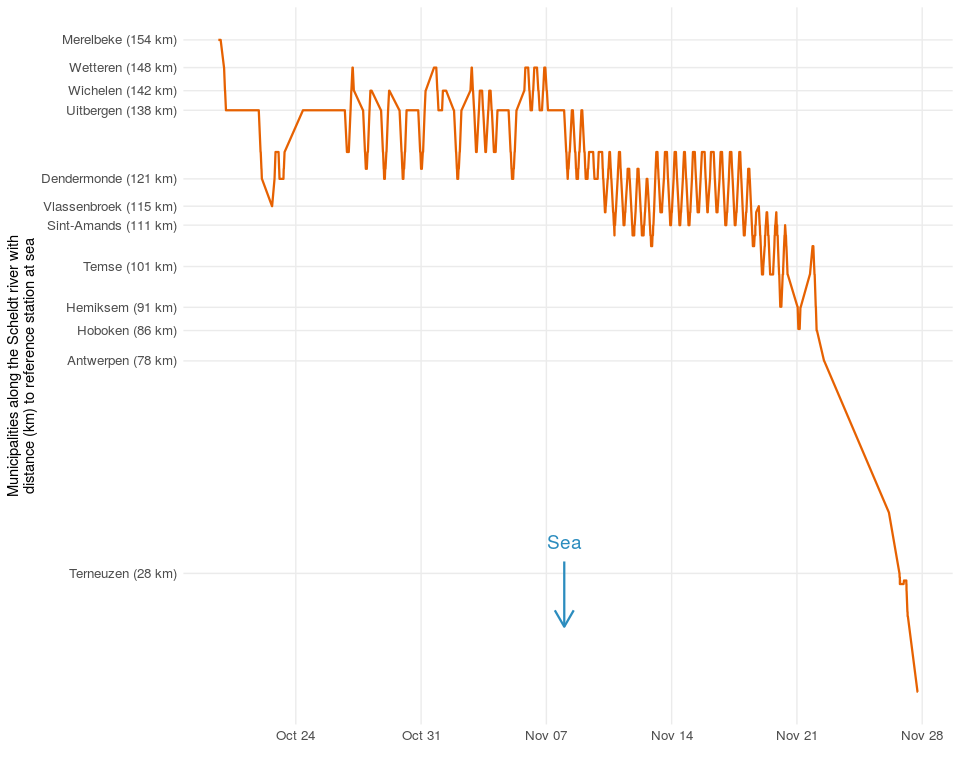
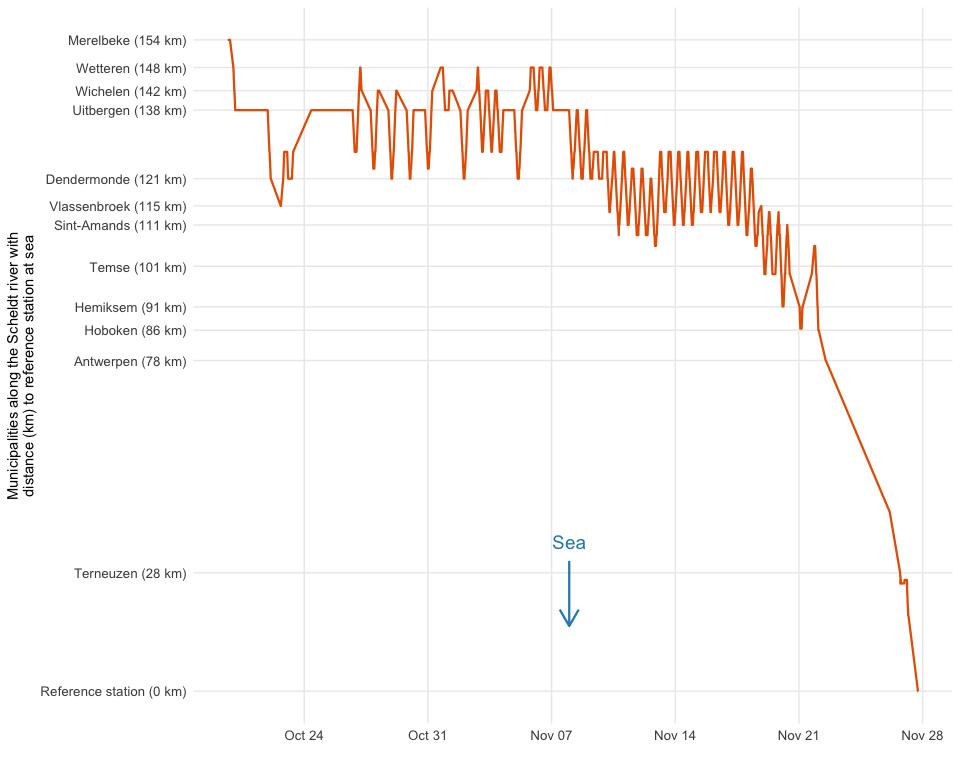
Update ref station in post (and thus plots)

diff --git a/docs/waterinfo-tidal-eel.md b/docs/waterinfo-tidal-eel.md
@@ -164,8 +164,7 @@ To avoid visual clutter, we'll use ridges (from [`ggridges`](https://cran.r-proj
 
 Looking at the plot, Princess Buttercup seems to be "lazy" and drift with the tide. Rising water levels push her upstream, while decreasing water levels bring her closer to sea again. On November 22 (see also previous plot), she embarks on her migration for real.
 
-Conclusion
-----------
+### Conclusion
 
 In this blogpost we used the wateRinfo package to gain some insight in the movement/migration behaviour of an individual eel. We hope the package can support many more research questions and that you [have fun storming the castle](https://www.imdb.com/title/tt0093779/quotes/qt0482745).
 
@@ -173,7 +172,7 @@ In this blogpost we used the wateRinfo package to gain some insight in the movem
 -   For more info on the package, see [the package website](https://ropensci.github.io/wateRinfo/).
 -   For the full code of this blogpost, see [this repository](https://github.com/stijnvanhoey/waterinfo-tidal-eel).
 
-[1] To represent the data along a straight line (y-axis), we calculated the distance along the river from each station to a reference station close to the sea (`ws-DL7`), using a `costDistance` function. See [this script](https://github.com/stijnvanhoey/waterinfo-tidal-eel/blob/master/src/stations_distances.ipynb) for more the details on the calculation.
+[1] To represent the data along a straight line (y-axis), we calculated the distance along the river from each station to a reference station close to the sea (`ws-TRAWL`), using a `costDistance` function. See [this script](https://github.com/stijnvanhoey/waterinfo-tidal-eel/blob/master/src/stations_distances.ipynb) for more the details on the calculation.
 
 [2] The Scheldt is under tidal influence from its river mouth all the way to Ghent (160km upstream) where it is stopped by sluices. The tide goes much further than the freshwater-saltwater boundary of the river.
 
